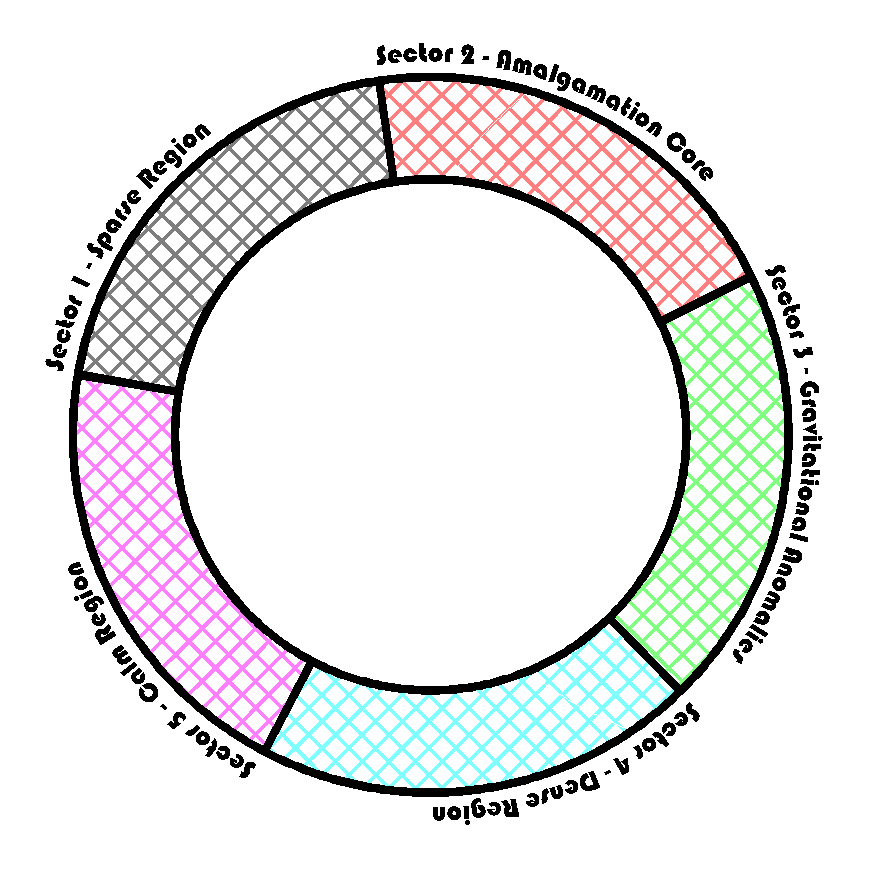
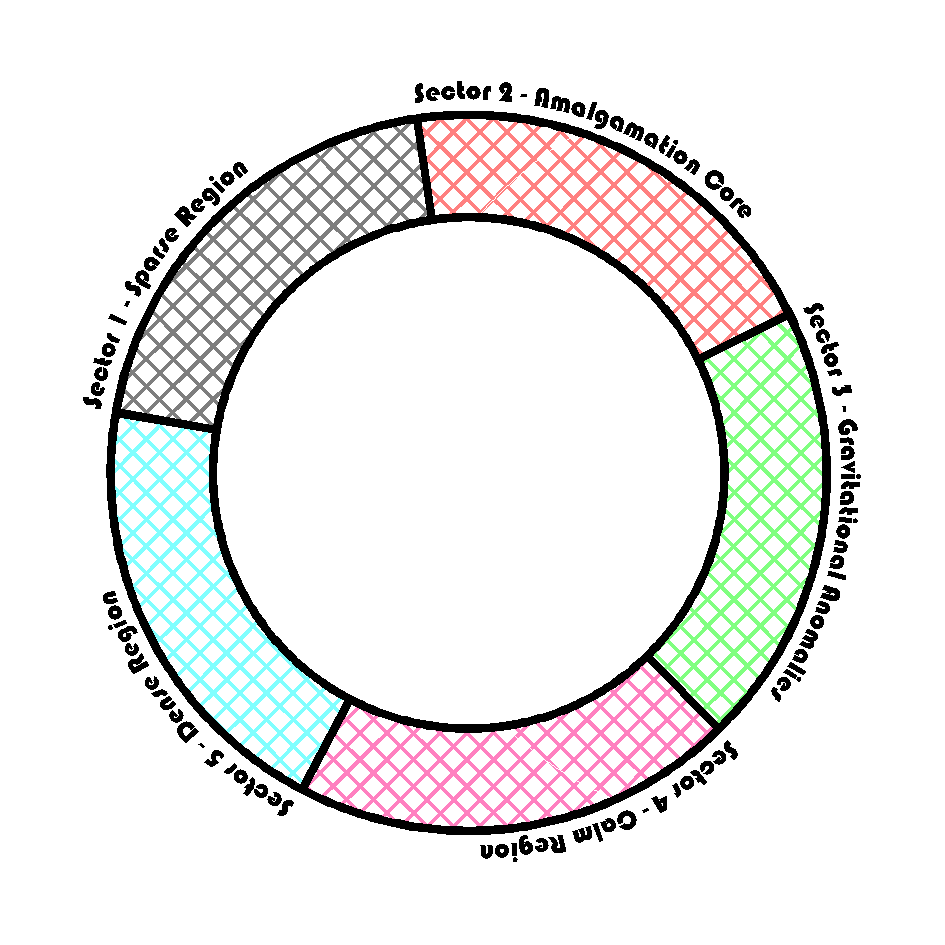
Swapped calm and dense region to allow calm to be surrounded by protected areas

Changed region(s): [[0.0621, 0.0311, 0.9632, 0.9632]]

diff --git a/Location/The Scrapyard belt.md b/Location/The Scrapyard belt.md
@@ -7,7 +7,7 @@ The asteroid field has 5 main regions:
 - [[Sector 1 - Sparse Region]]
 - [[Sector 2 - Amalgamation Core]]
 - [[Sector 3 - Gravitational Anomalies]]
-- [[Sector 4 - Dense Region]]
-- [[Sector 5 - Calm Region]]
+- [[Sector 4 - Calm Region]]
+- [[Sector 5 - Dense Region]]
 
 ![alt](./VISUAL/Belt%20Map.png)
